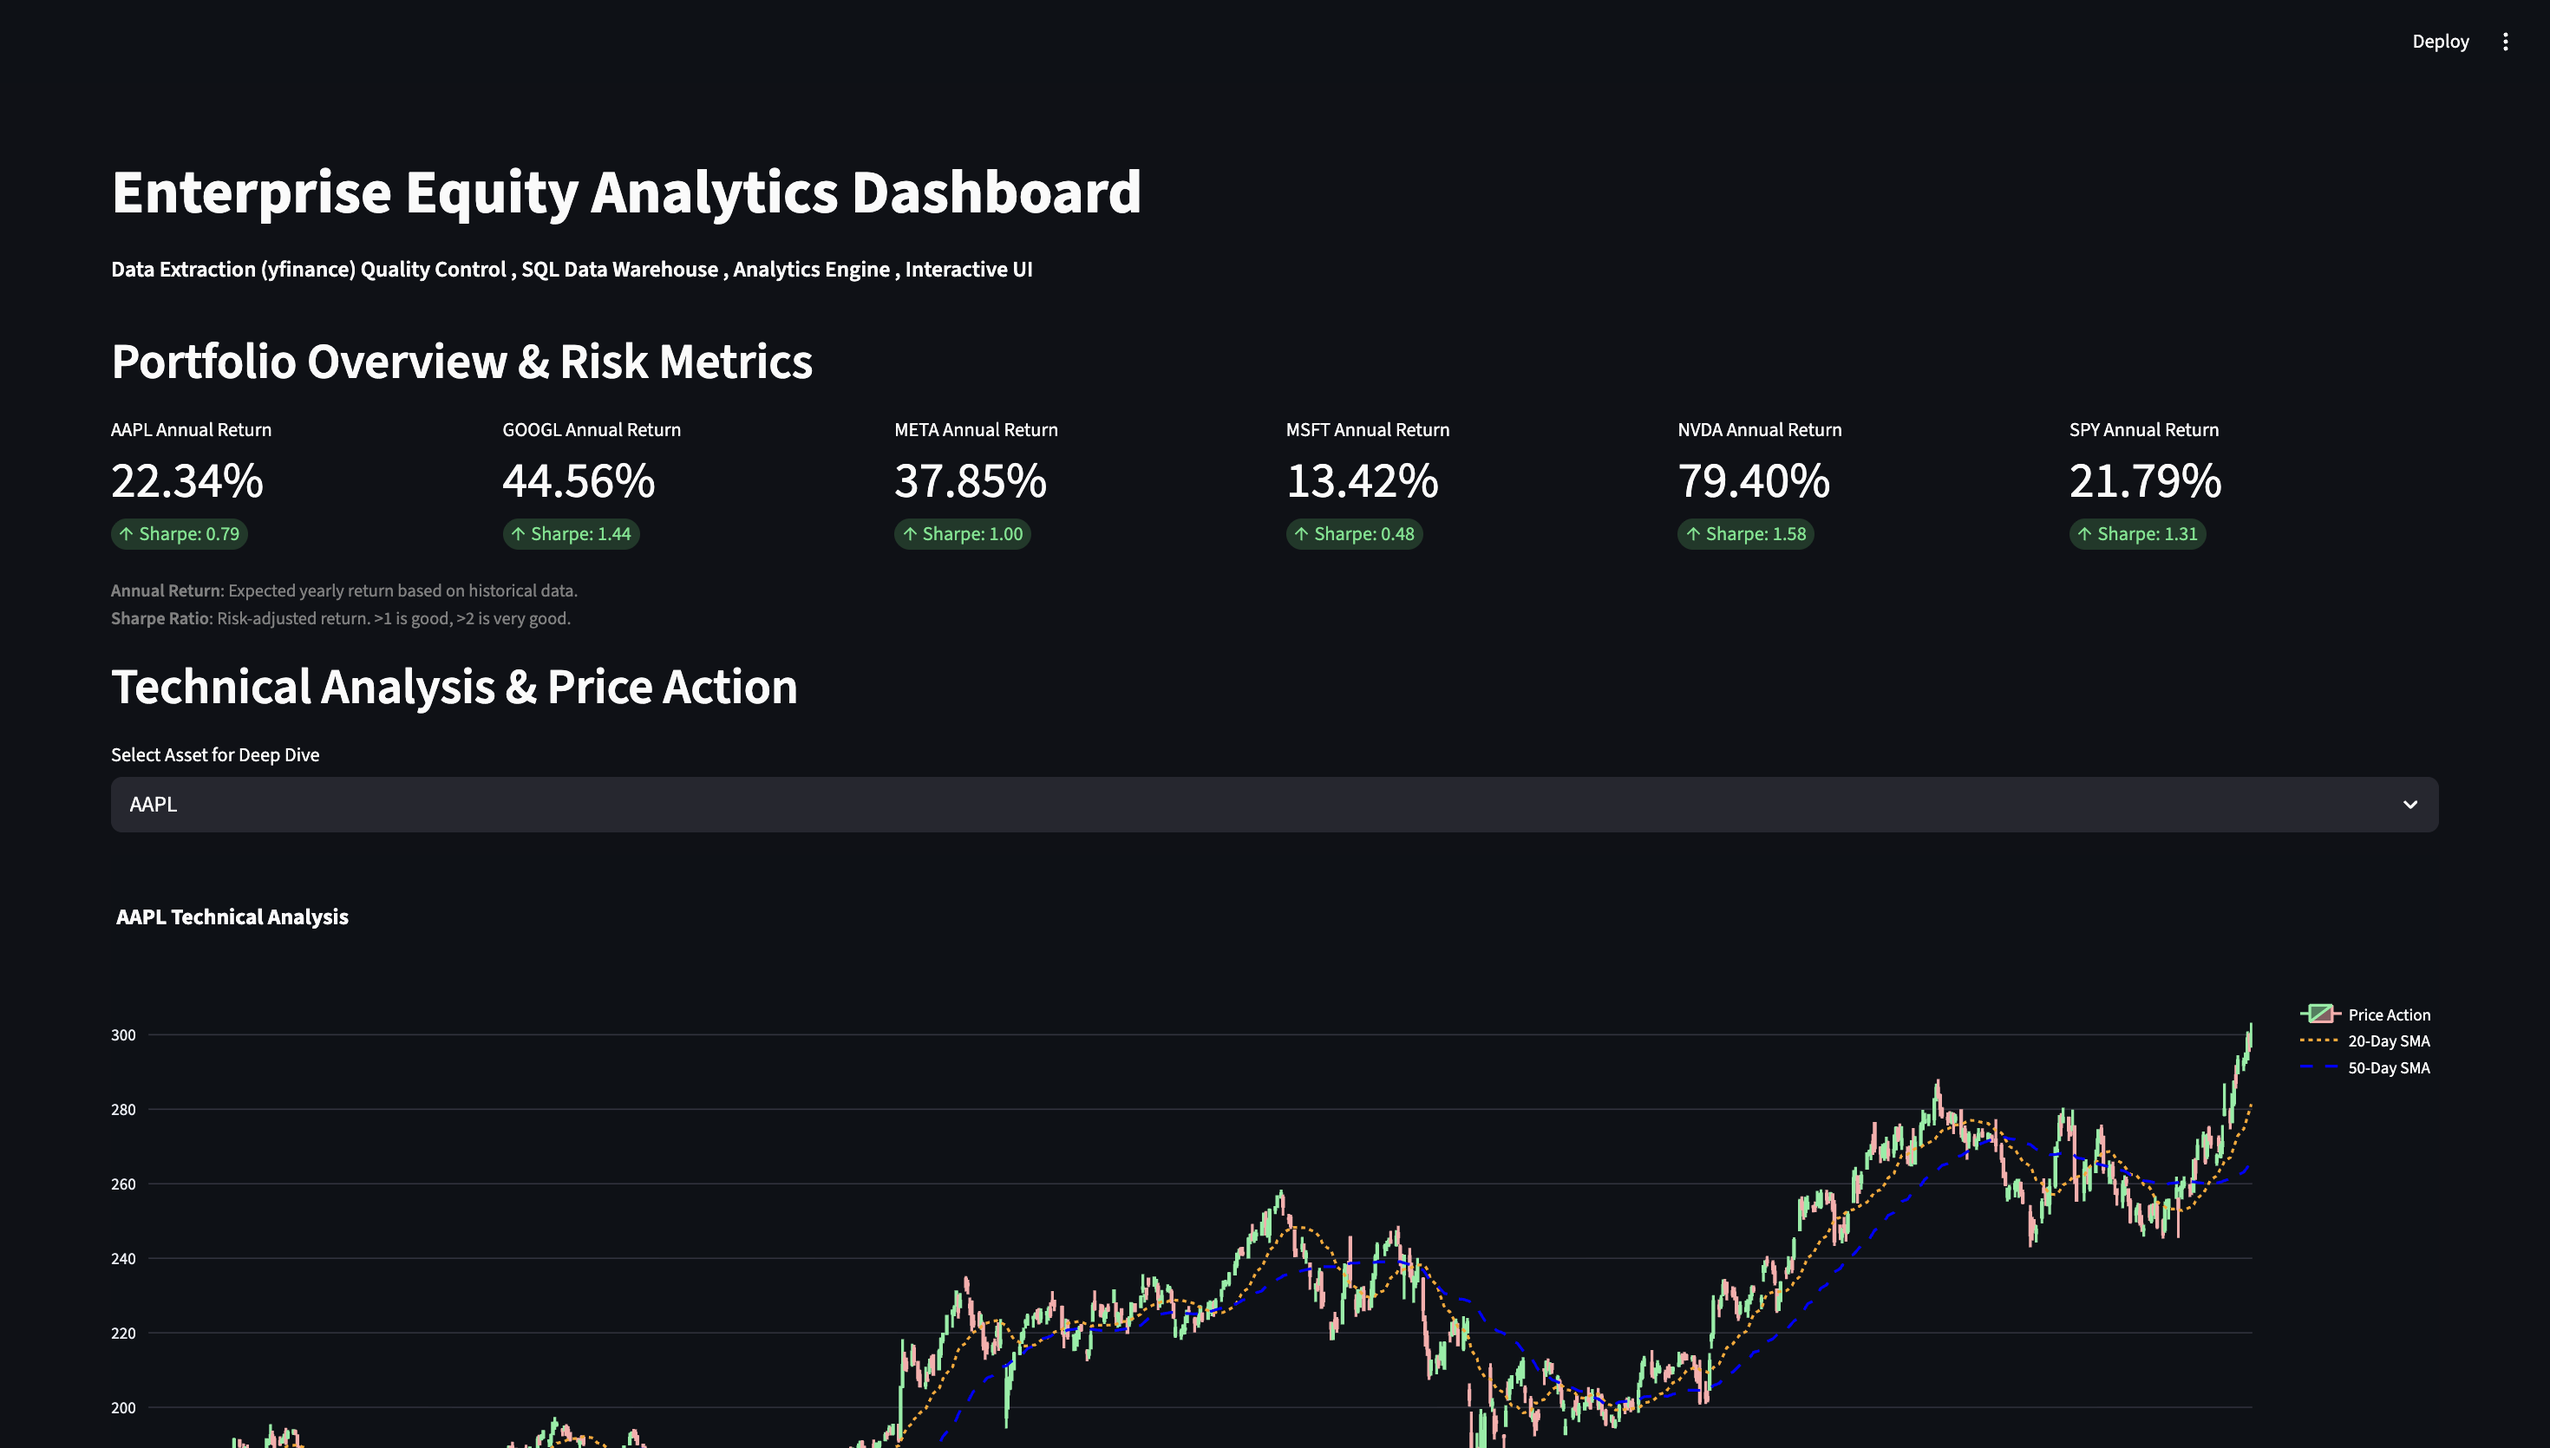
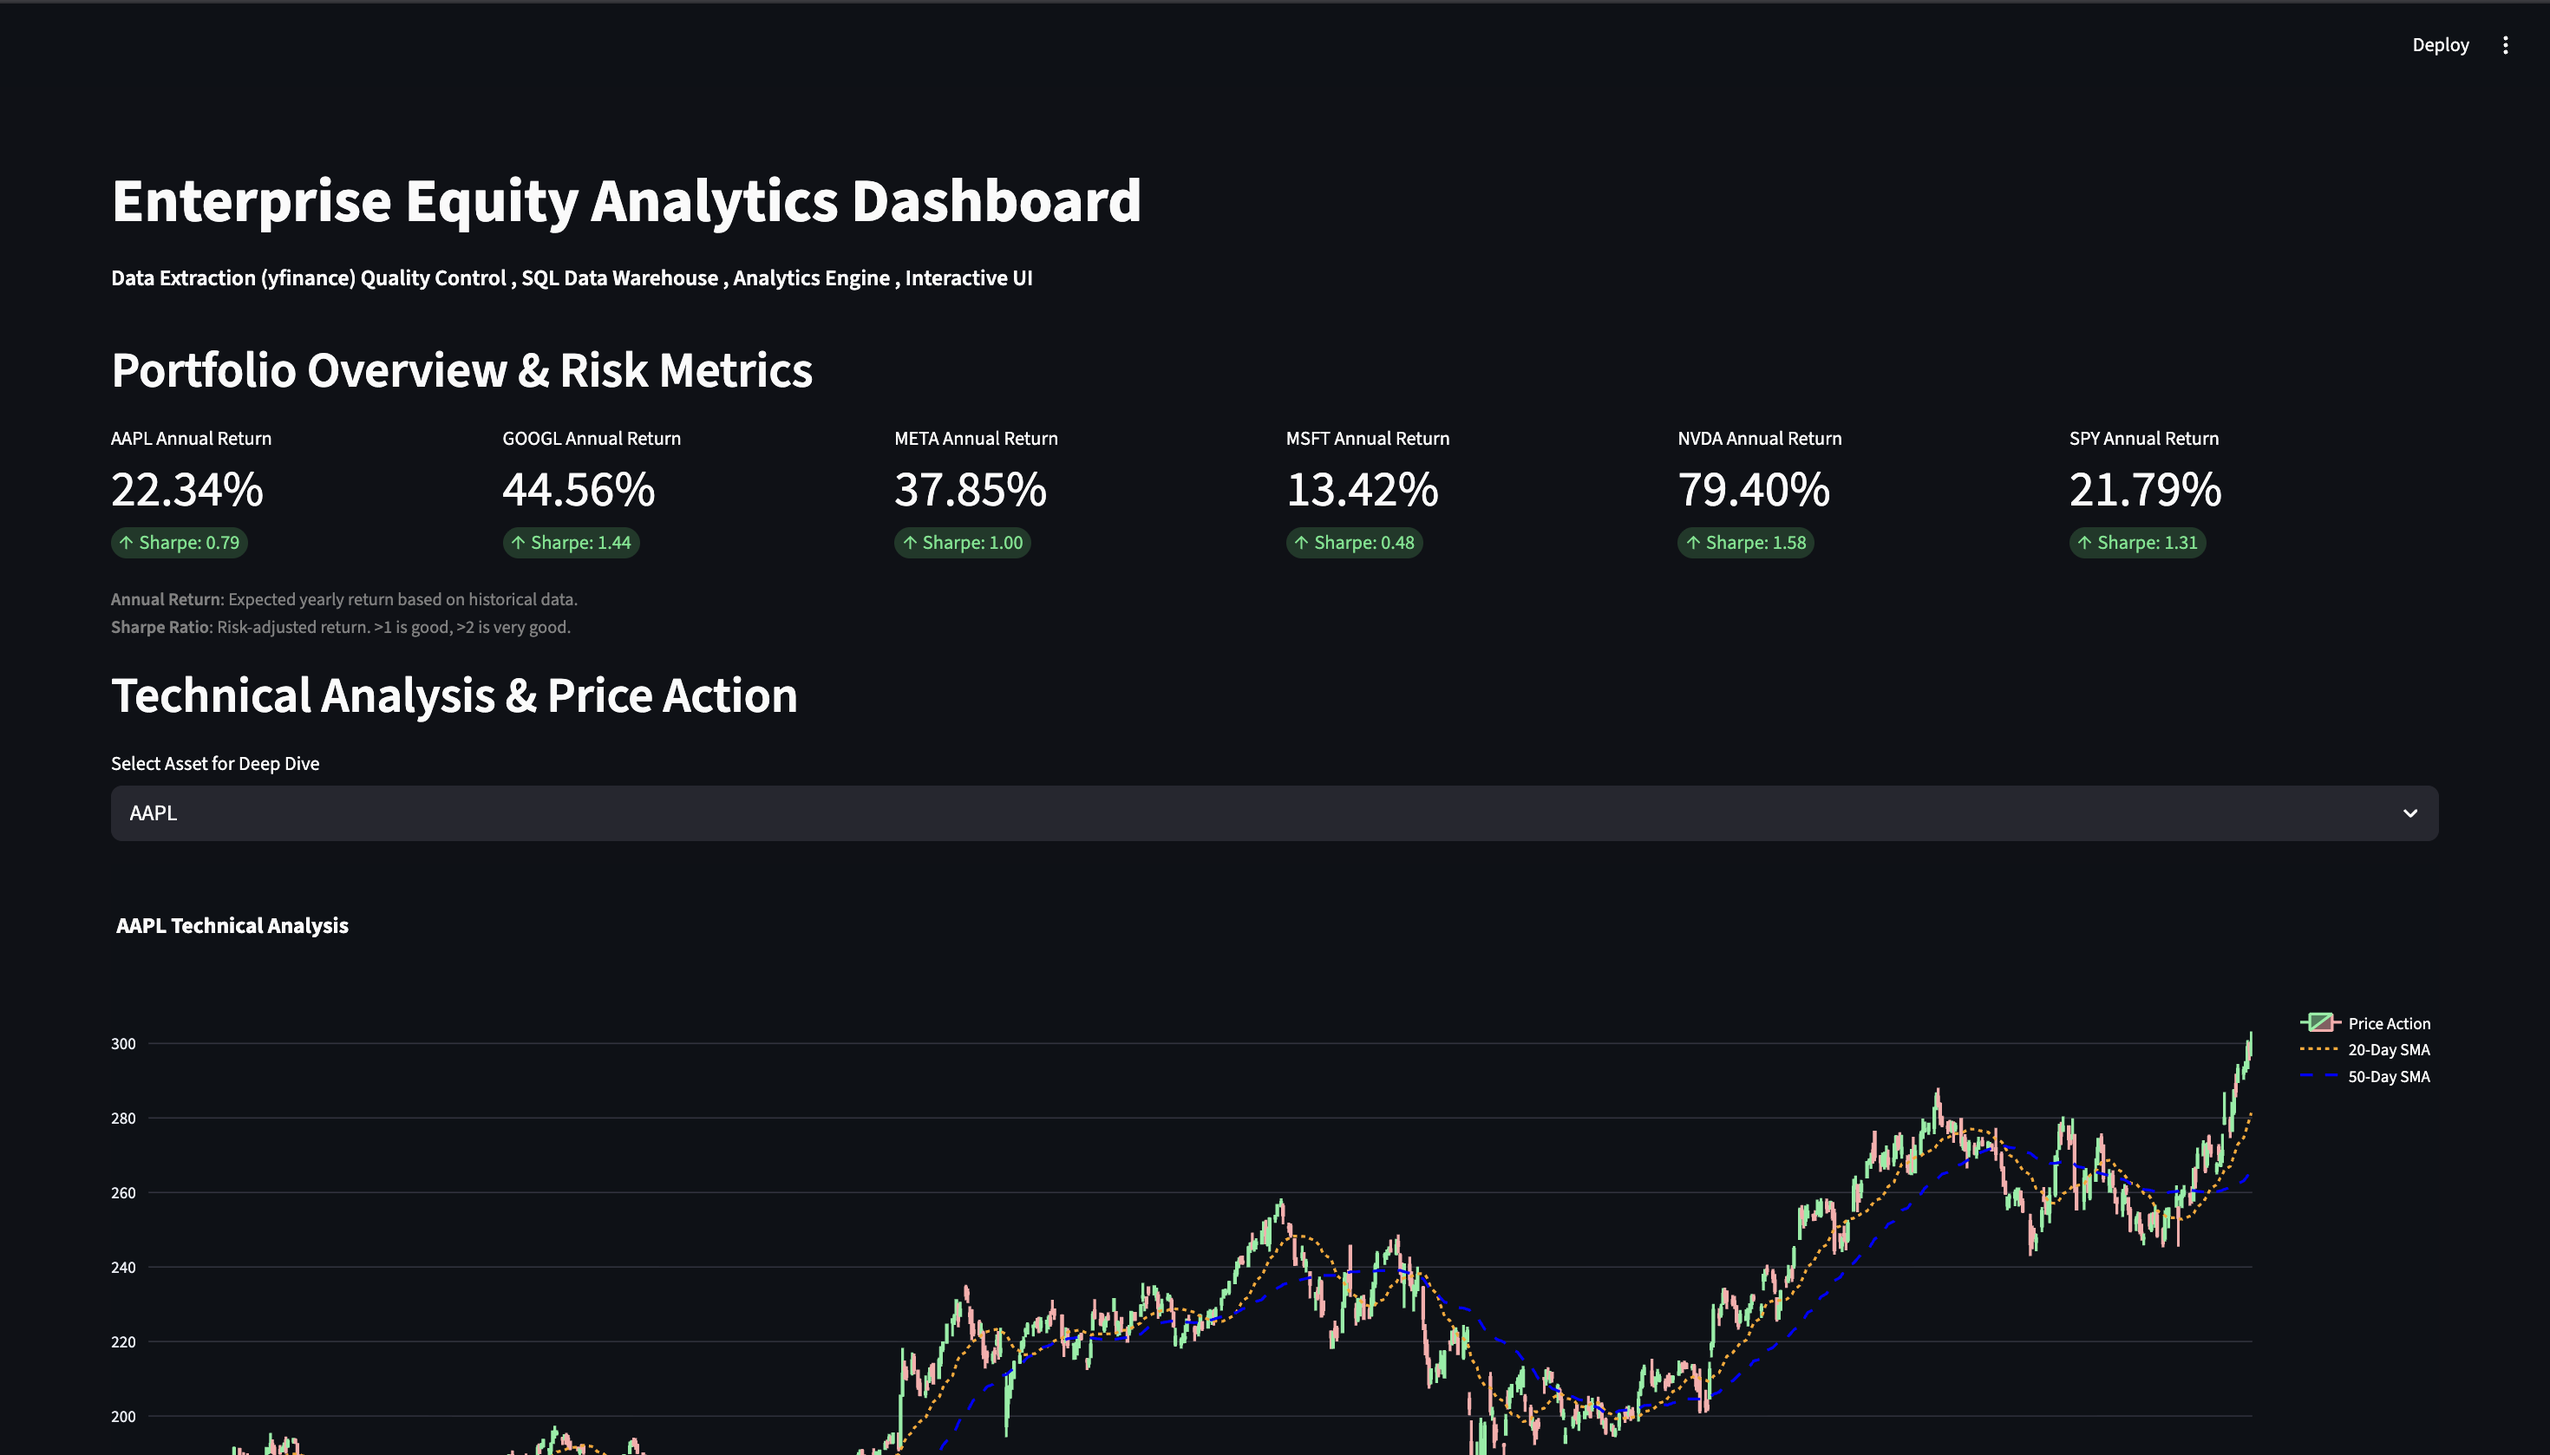
picture config

diff --git a/Enterprise_Market_Analytics/app.py b/Enterprise_Market_Analytics/app.py
@@ -86,7 +86,6 @@ st.plotly_chart(fig, width='stretch')
 
 
 st.header("Predictive Analytics: Monte Carlo Simulation")
-st.markdown(f"Simulating 100 possible future price paths for **{selected_ticker}** over the next 30 trading days based on historical volatility and drift.")
 
 col1, col2 = st.columns([1, 4])
 with col1:
@@ -110,7 +109,6 @@ with col2:
 
 
 st.header("Asset Correlation Matrix")
-st.markdown("Understanding how assets move in relation to each other is crucial for portfolio diversification.")
 corr = returns.corr()
 fig_corr = px.imshow(corr, text_auto=".2f", color_continuous_scale='RdBu_r', aspect="auto")
 st.plotly_chart(fig_corr, width='stretch')
